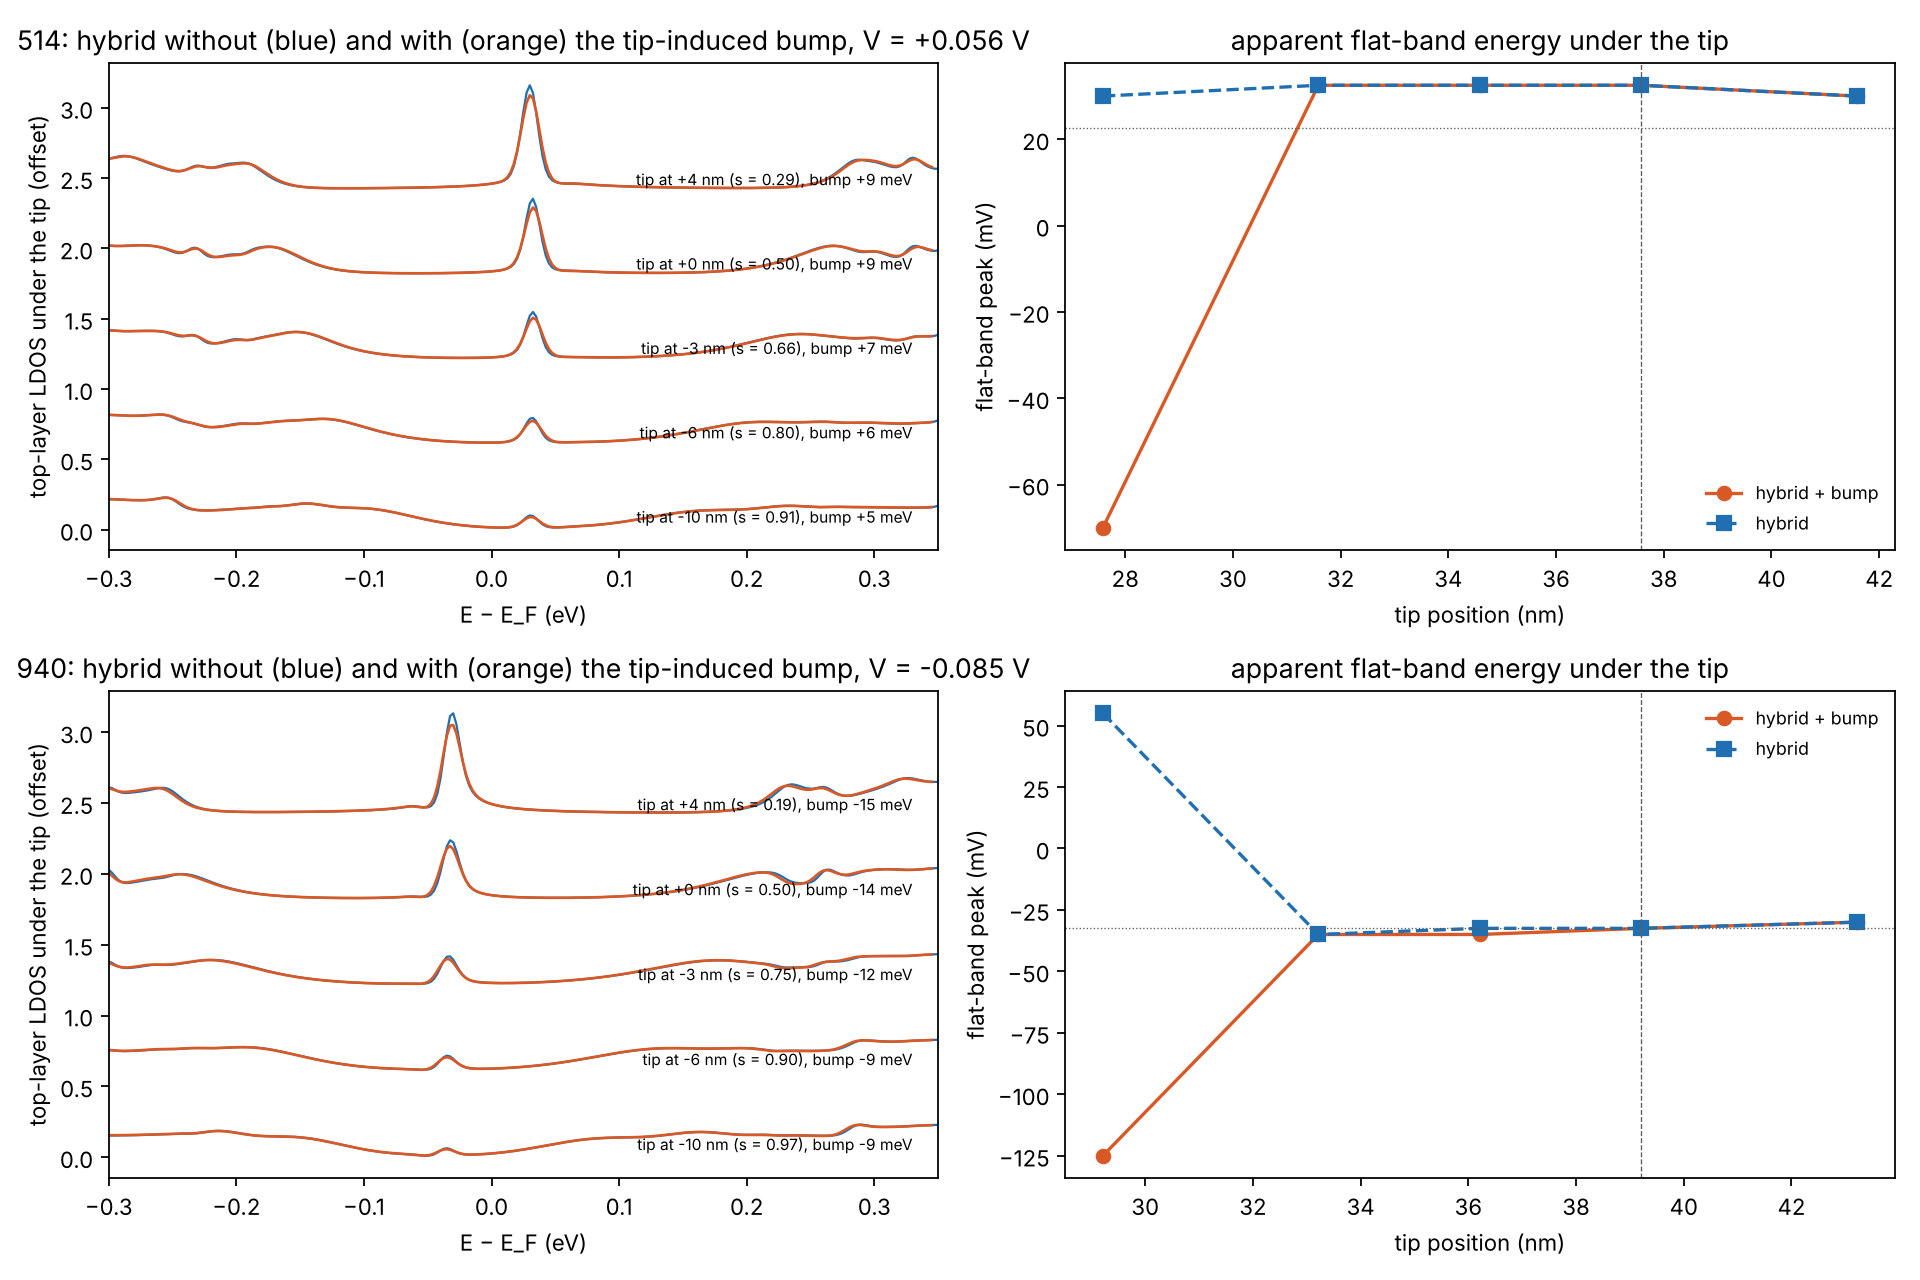
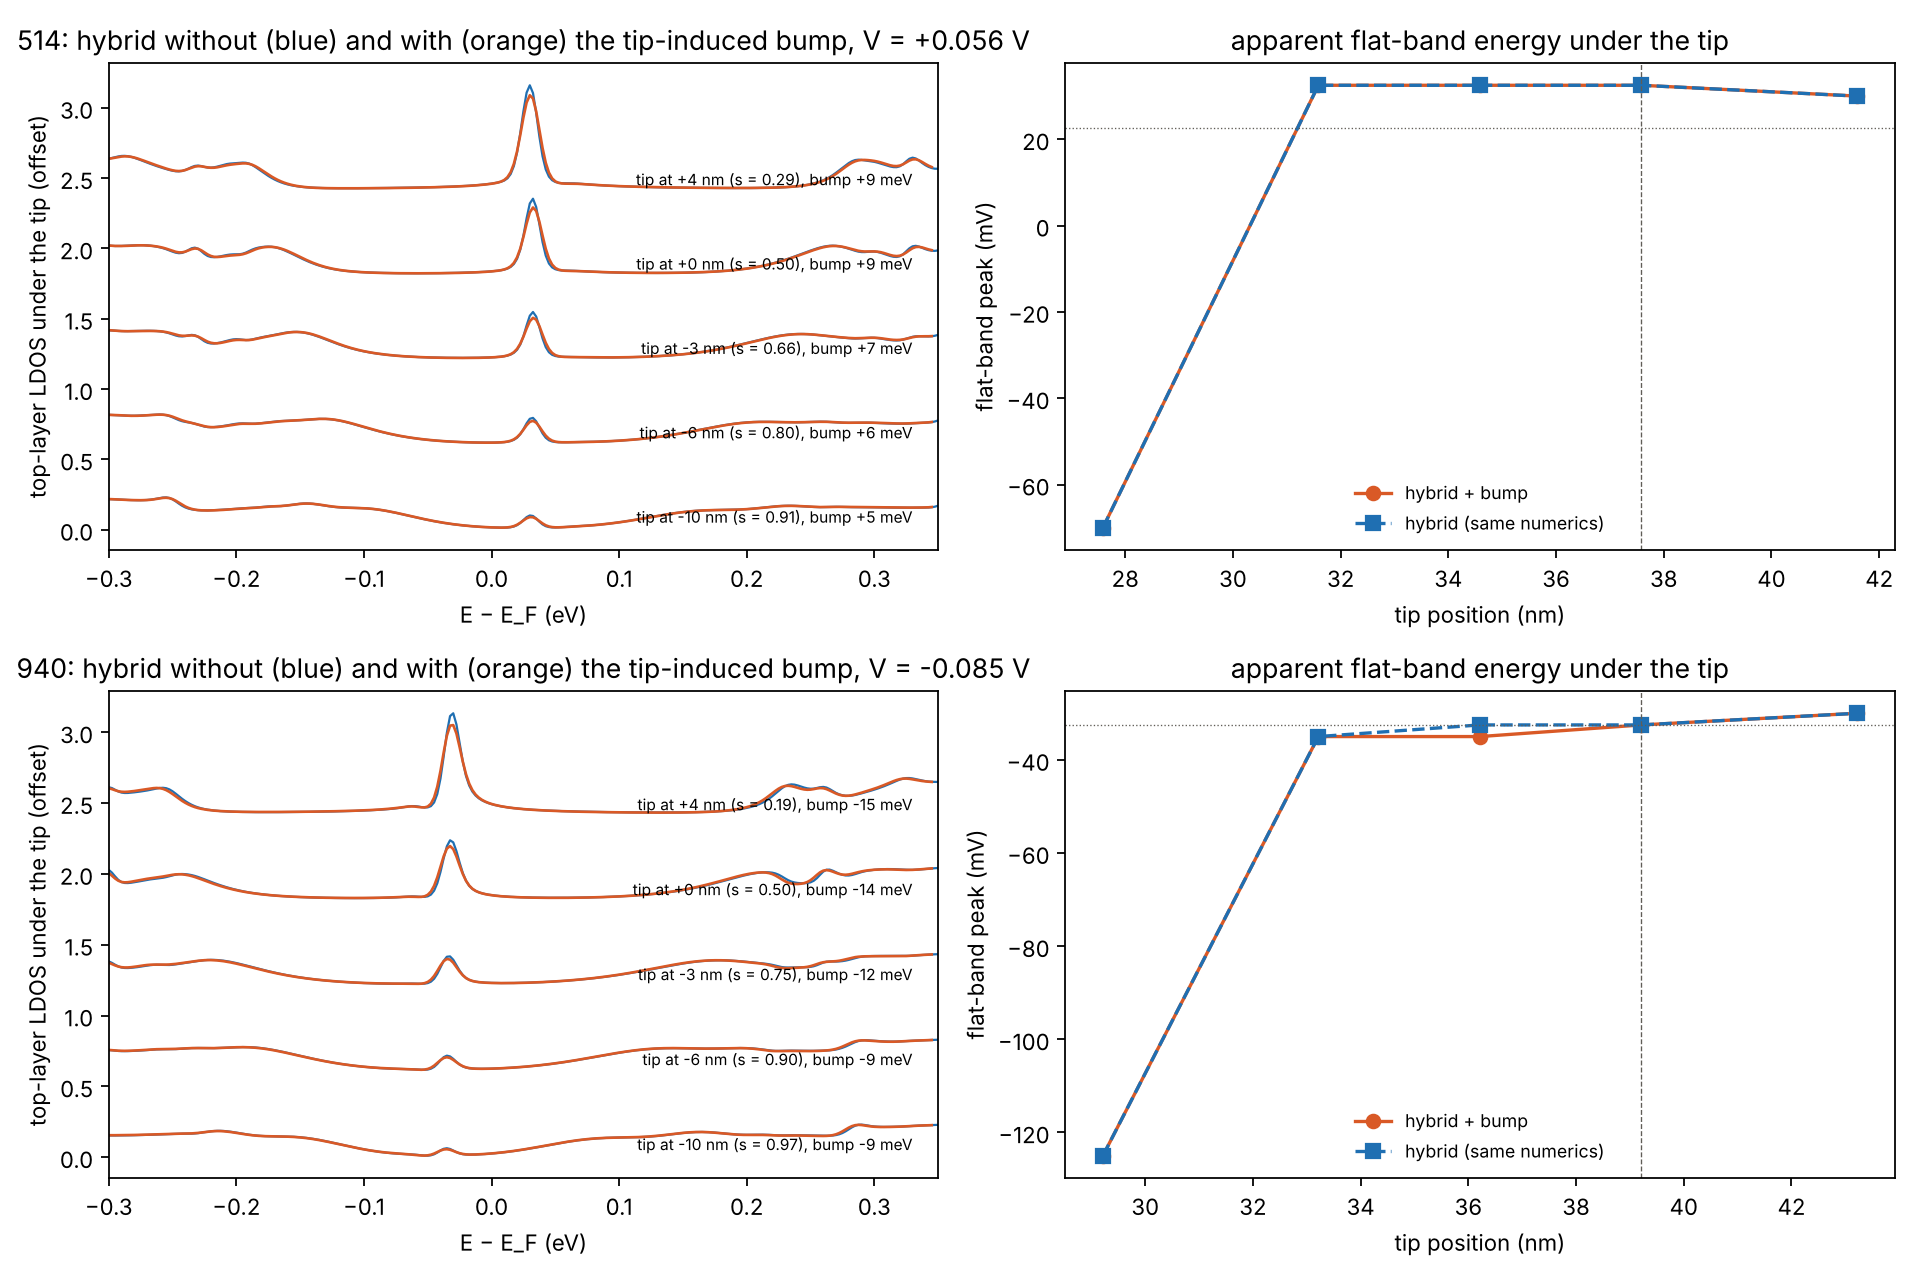
Bump figure and table: skip positions where the flat band has faded
Claude-Session: https://claude.ai/code/session_01PsfWzcxrPsoDkZCcWNxjWK

diff --git a/stacking_wall_report.py b/stacking_wall_report.py
@@ -278,7 +278,12 @@ def bump_text(states, img_prefix=""):
         return ""
     table = []
     for t, v in nums.items():
+        h_max = max(r["height"] for r in v["rows"])
         for r in v["rows"]:
+            if r["height"] < 0.15 * h_max:
+                table.append(f"<tr><td>{t}</td><td>{r['x']:+.0f} nm</td><td>{r['s']:.2f}</td><td>{1e3 * r['bump']:+.0f} meV</td>"
+                             f"<td colspan=\"3\">flat-band peak faded (height below 15 % of the far value)</td></tr>")
+                continue
             ref = f"{1e3 * r['peak_ref']:+.0f}" if r["peak_ref"] is not None else "–"
             extra = f"{1e3 * (r['peak'] - r['peak_ref']):+.1f}" if r["peak_ref"] is not None else "–"
             dc = f"{1e3 * r['dcentroid']:+.1f}" if r.get("dcentroid") is not None else "–"
@@ -286,7 +291,8 @@ def bump_text(states, img_prefix=""):
                          f"<td>{ref} / {1e3 * r['peak']:+.0f} mV</td><td>{extra} mV</td><td>{dc} mV</td></tr>")
     s0 = next(iter(nums.values()))["settings"]
     biases = ", ".join(f"{1e3 * v['settings']['bias']:+.0f} mV ({t})" for t, v in nums.items())
-    extras = {t: max((abs(r["dcentroid"]) for r in v["rows"] if r.get("dcentroid") is not None), default=0.0)
+    extras = {t: max((abs(r["dcentroid"]) for r in v["rows"]
+                      if r.get("dcentroid") is not None and r["height"] >= 0.15 * max(q["height"] for q in v["rows"])), default=0.0)
               for t, v in nums.items()}
     worst = ", ".join(f"{1e3 * e:.1f} mV ({t})" for t, e in extras.items())
     return f"""<h3>The tip-induced bump</h3>

diff --git a/stacking_wall_tibb_bump.py b/stacking_wall_tibb_bump.py
@@ -149,10 +149,16 @@ def plot():
         ax.set(xlim=(-0.3, 0.35), xlabel="E − E_F (eV)", ylabel="top-layer LDOS under the tip (offset)",
                title=f"{t}: hybrid without (blue) and with (orange) the tip-induced bump, V = {s['bias']:+.3f} V")
         ax = axs[row, 1]
-        xs = [x0 + r["x"] for r in runs]
-        ax.plot(xs, [1e3 * (r["peak"] + shift) for r in runs], "o-", color="#d95926", label="hybrid + bump")
-        ax.plot(xs, [1e3 * (peak(Eh + shift, top[:, int(np.argmin(np.abs(xh - x)))], E_fb)[0]) for x in xs], "s--",
-                color="#1f6fb2", label="hybrid")
+        h_max = max(r["height"] for r in runs)
+        alive = [r for r in runs if r["height"] > 0.15 * h_max]               # the peak is still there
+        xs = [x0 + r["x"] for r in alive]
+        ax.plot(xs, [1e3 * (r["peak"] + shift) for r in alive], "o-", color="#d95926", label="hybrid + bump")
+        refs = [st["runs"].get(f"{r['x']:+.1f}_none") for r in alive]
+        if all(refs):
+            ax.plot(xs, [1e3 * (q["peak"] + shift) for q in refs], "s--", color="#1f6fb2", label="hybrid (same numerics)")
+        else:
+            ax.plot(xs, [1e3 * (peak(Eh + shift, top[:, int(np.argmin(np.abs(xh - x)))], E_fb)[0]) for x in xs], "s--",
+                    color="#1f6fb2", label="hybrid")
         ax.axhline(1e3 * E_fb, color="#605d57", lw=0.6, ls=":")
         ax.axvline(x0, color="#605d57", lw=0.6, ls="--")
         ax.set(xlabel="tip position (nm)", ylabel="flat-band peak (mV)", title="apparent flat-band energy under the tip")
